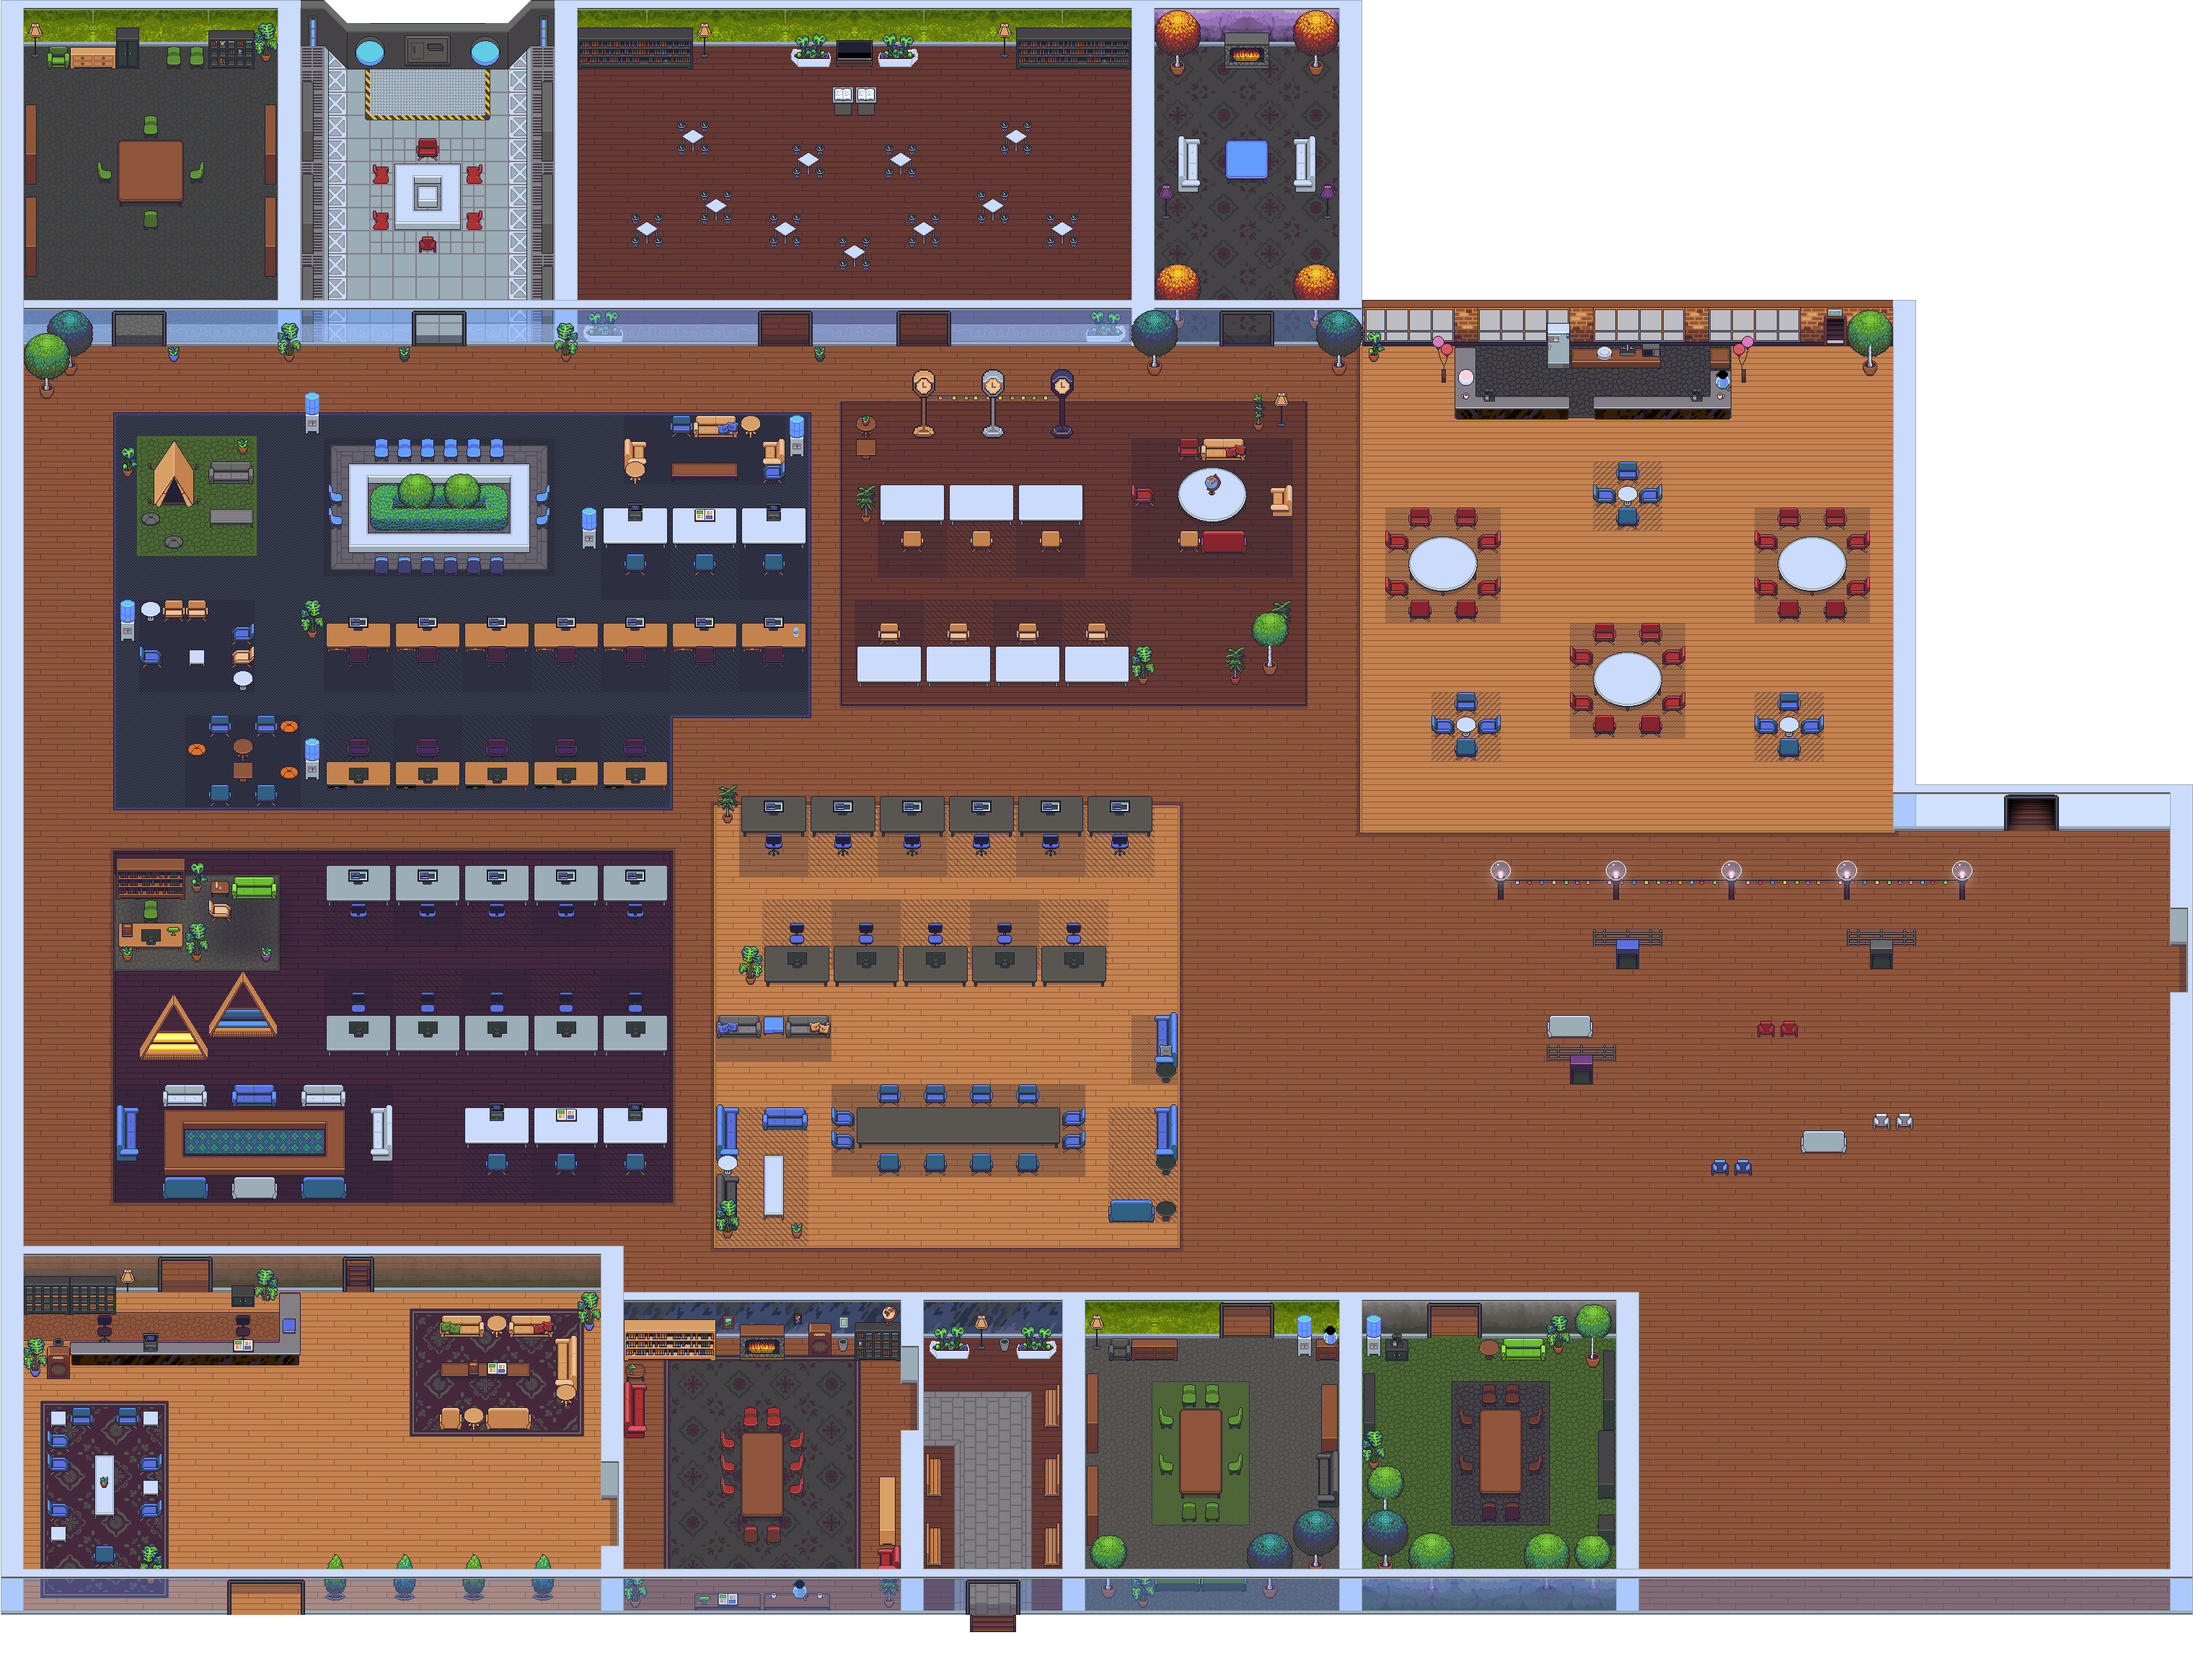
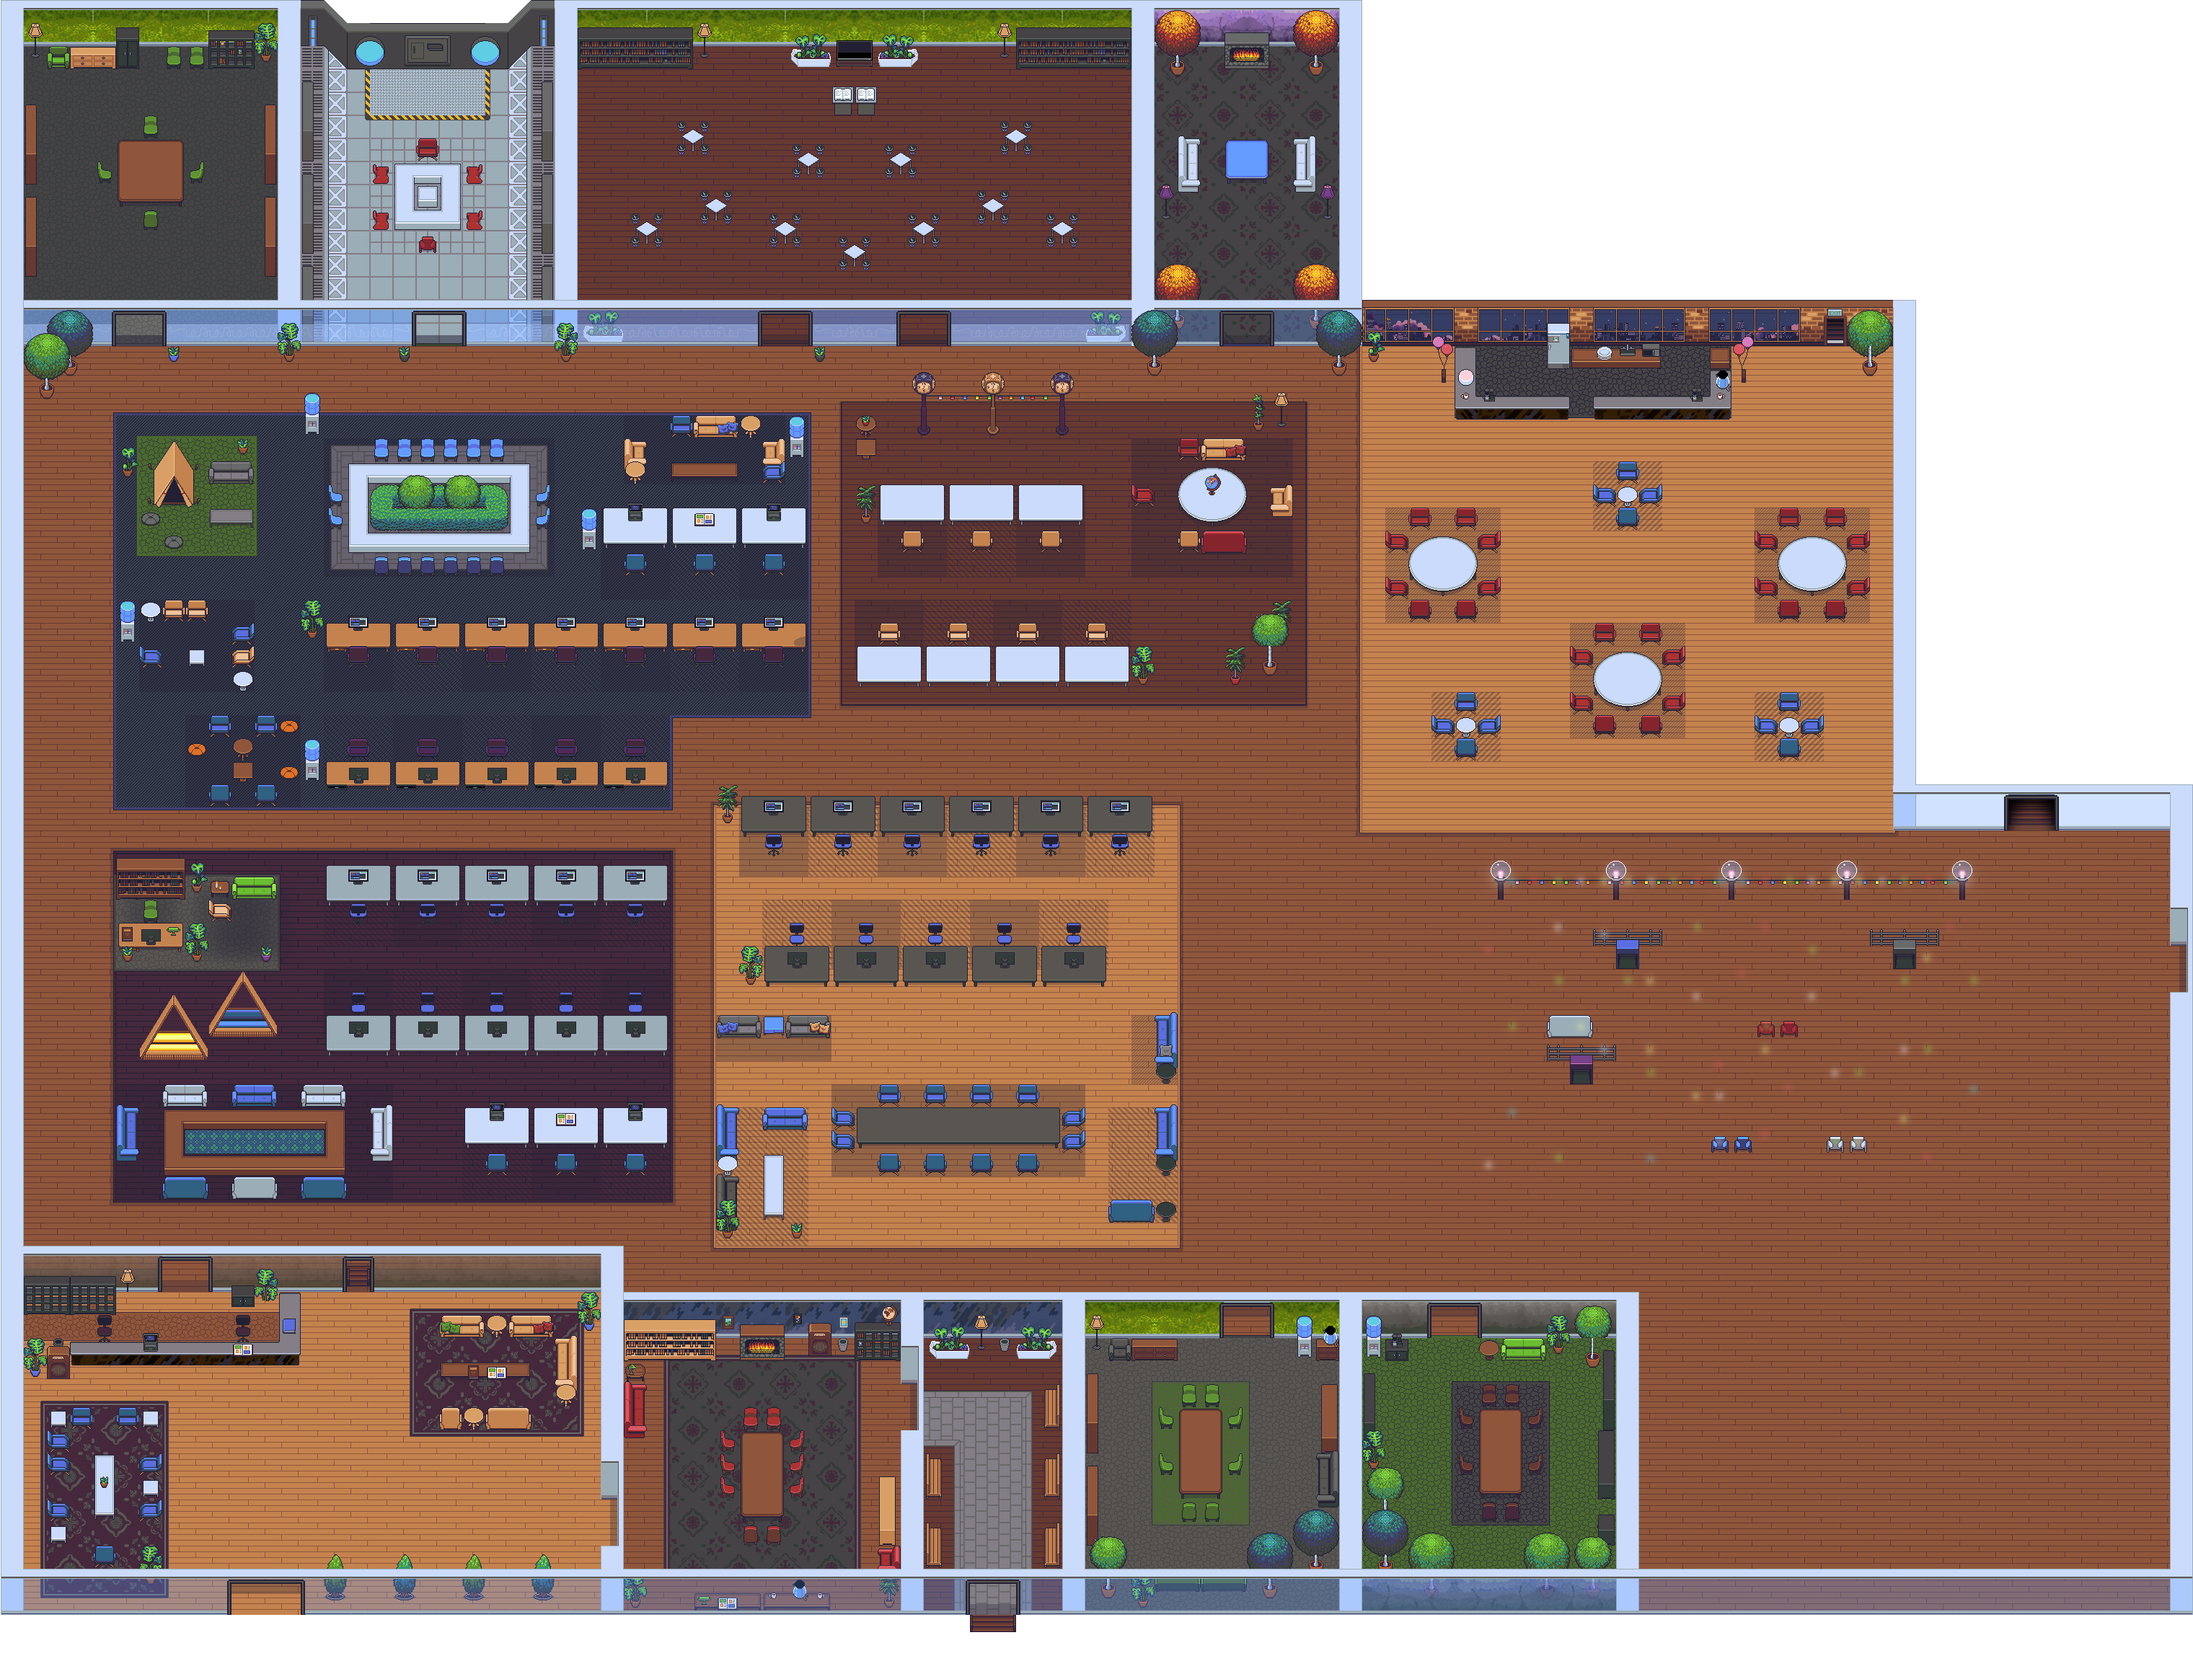
office stuff

diff --git a/maps/Gather Office 4/junk drawer/skyline 1.tsx b/maps/Gather Office 4/junk drawer/skyline 1.tsx
@@ -1,0 +1,4 @@
+<?xml version="1.0" encoding="UTF-8"?>
+<tileset version="1.4" tiledversion="1.4.3" name="skyline" tilewidth="32" tileheight="32" tilecount="75" columns="15">
+ <image source="../../../assets/Skyline1x.PNG" width="500" height="173"/>
+</tileset>
